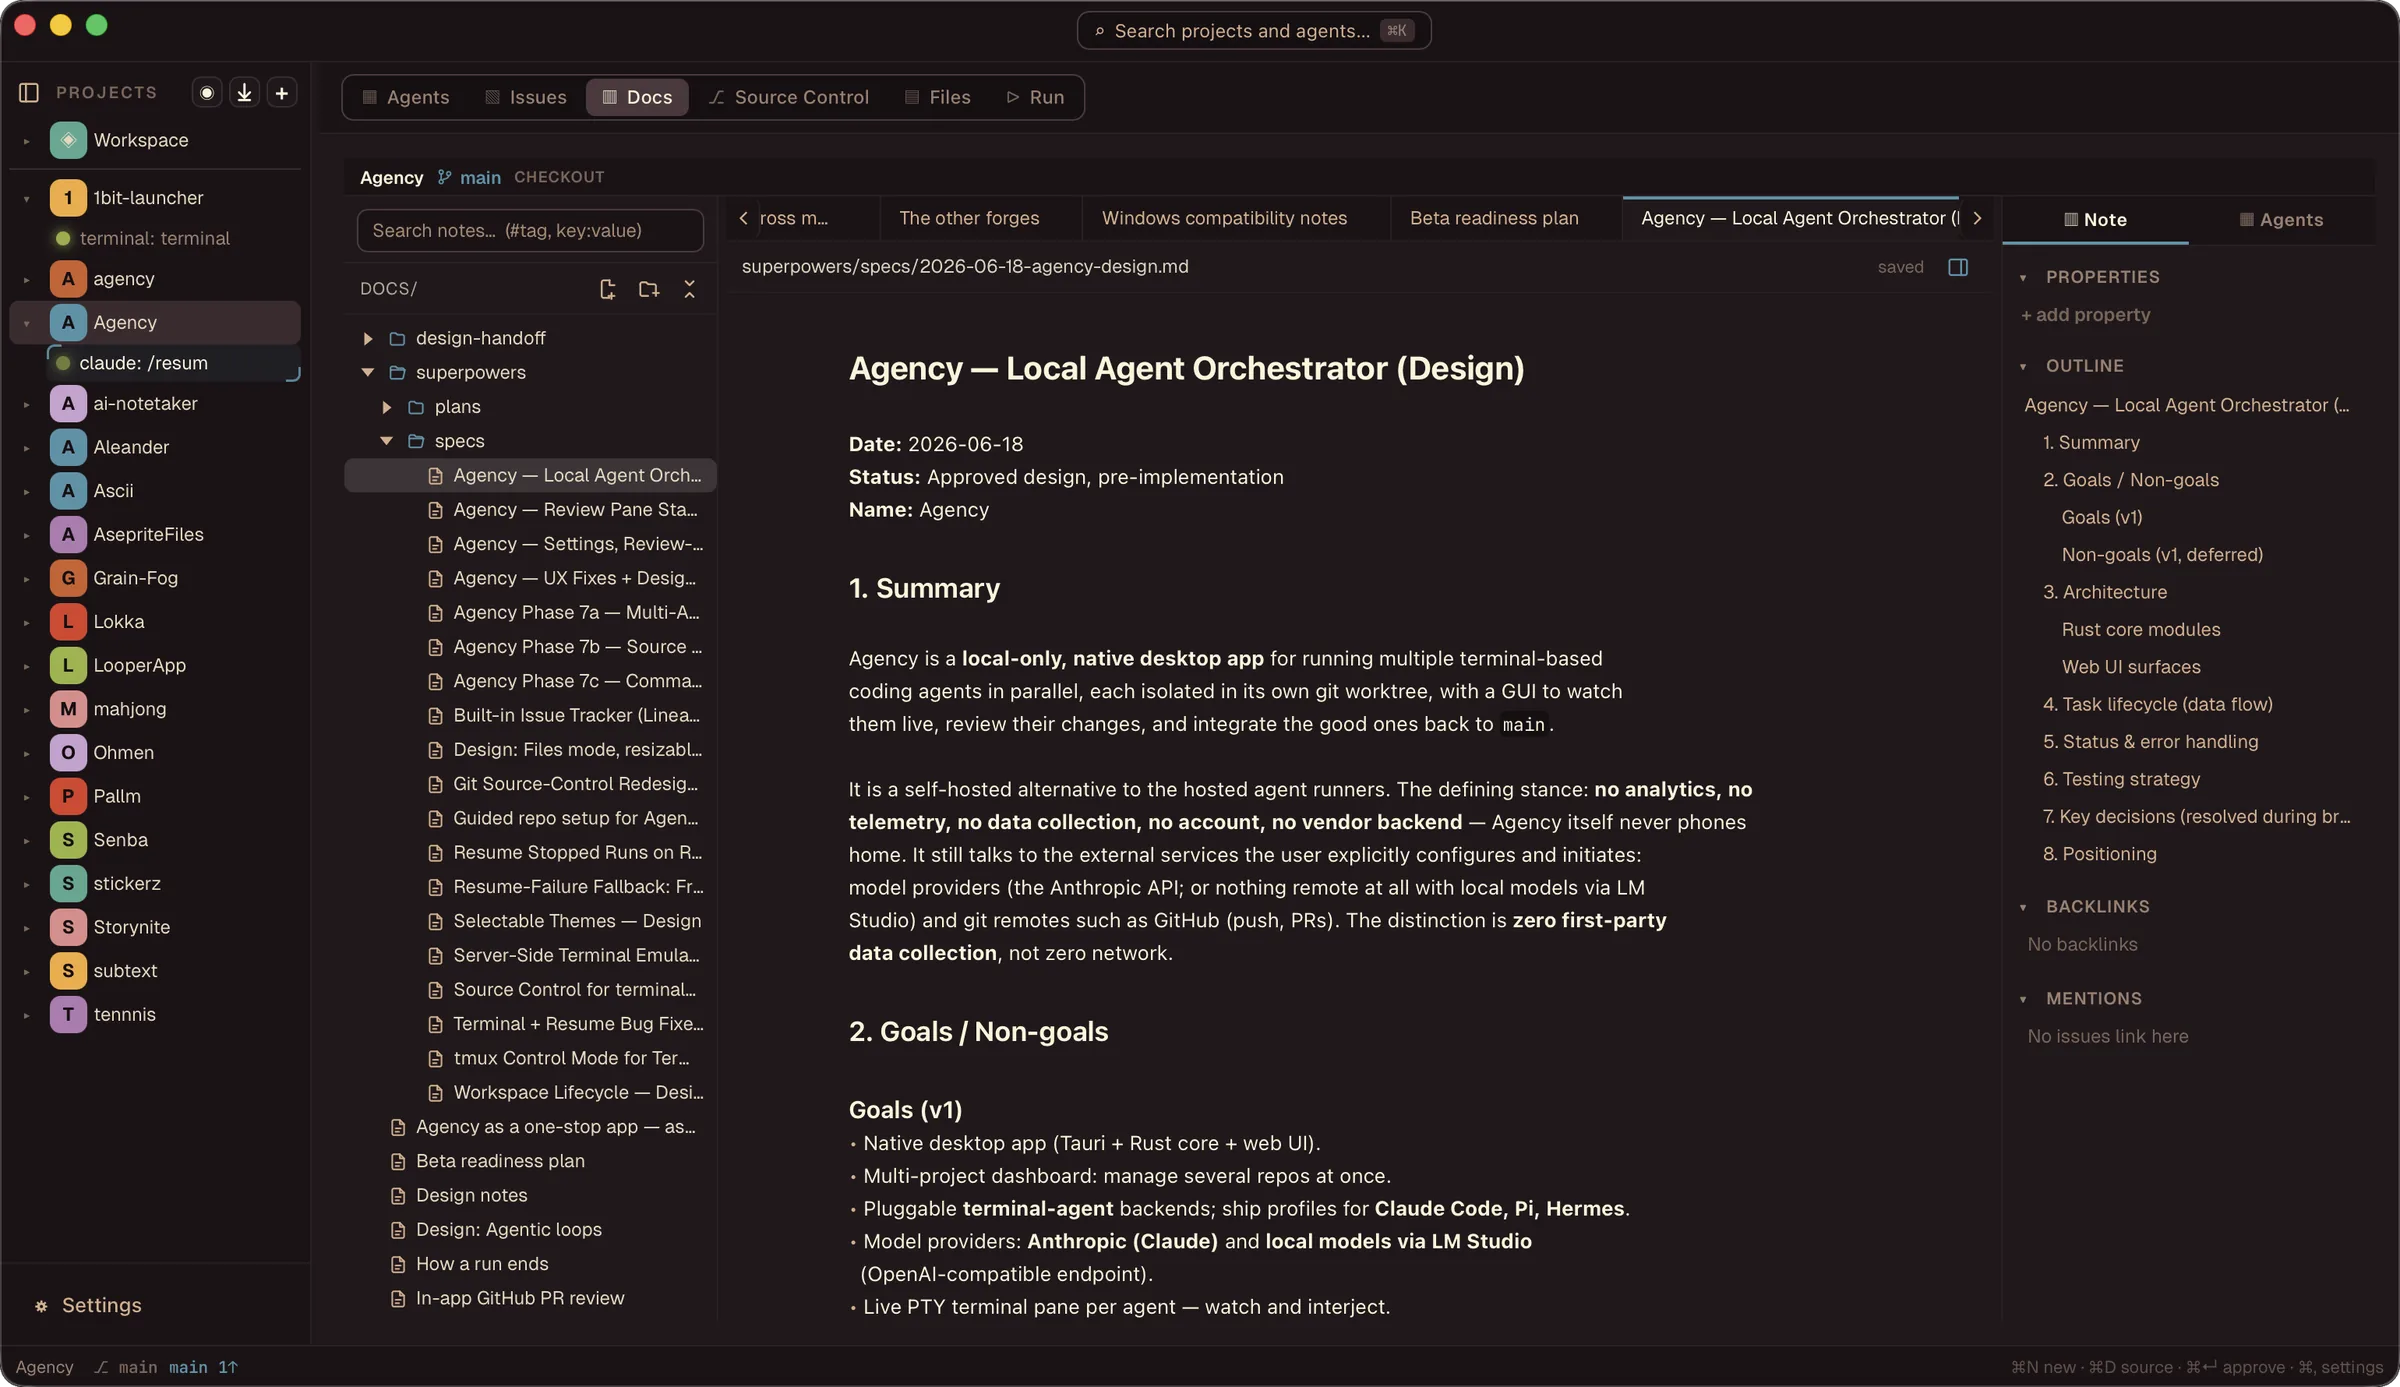
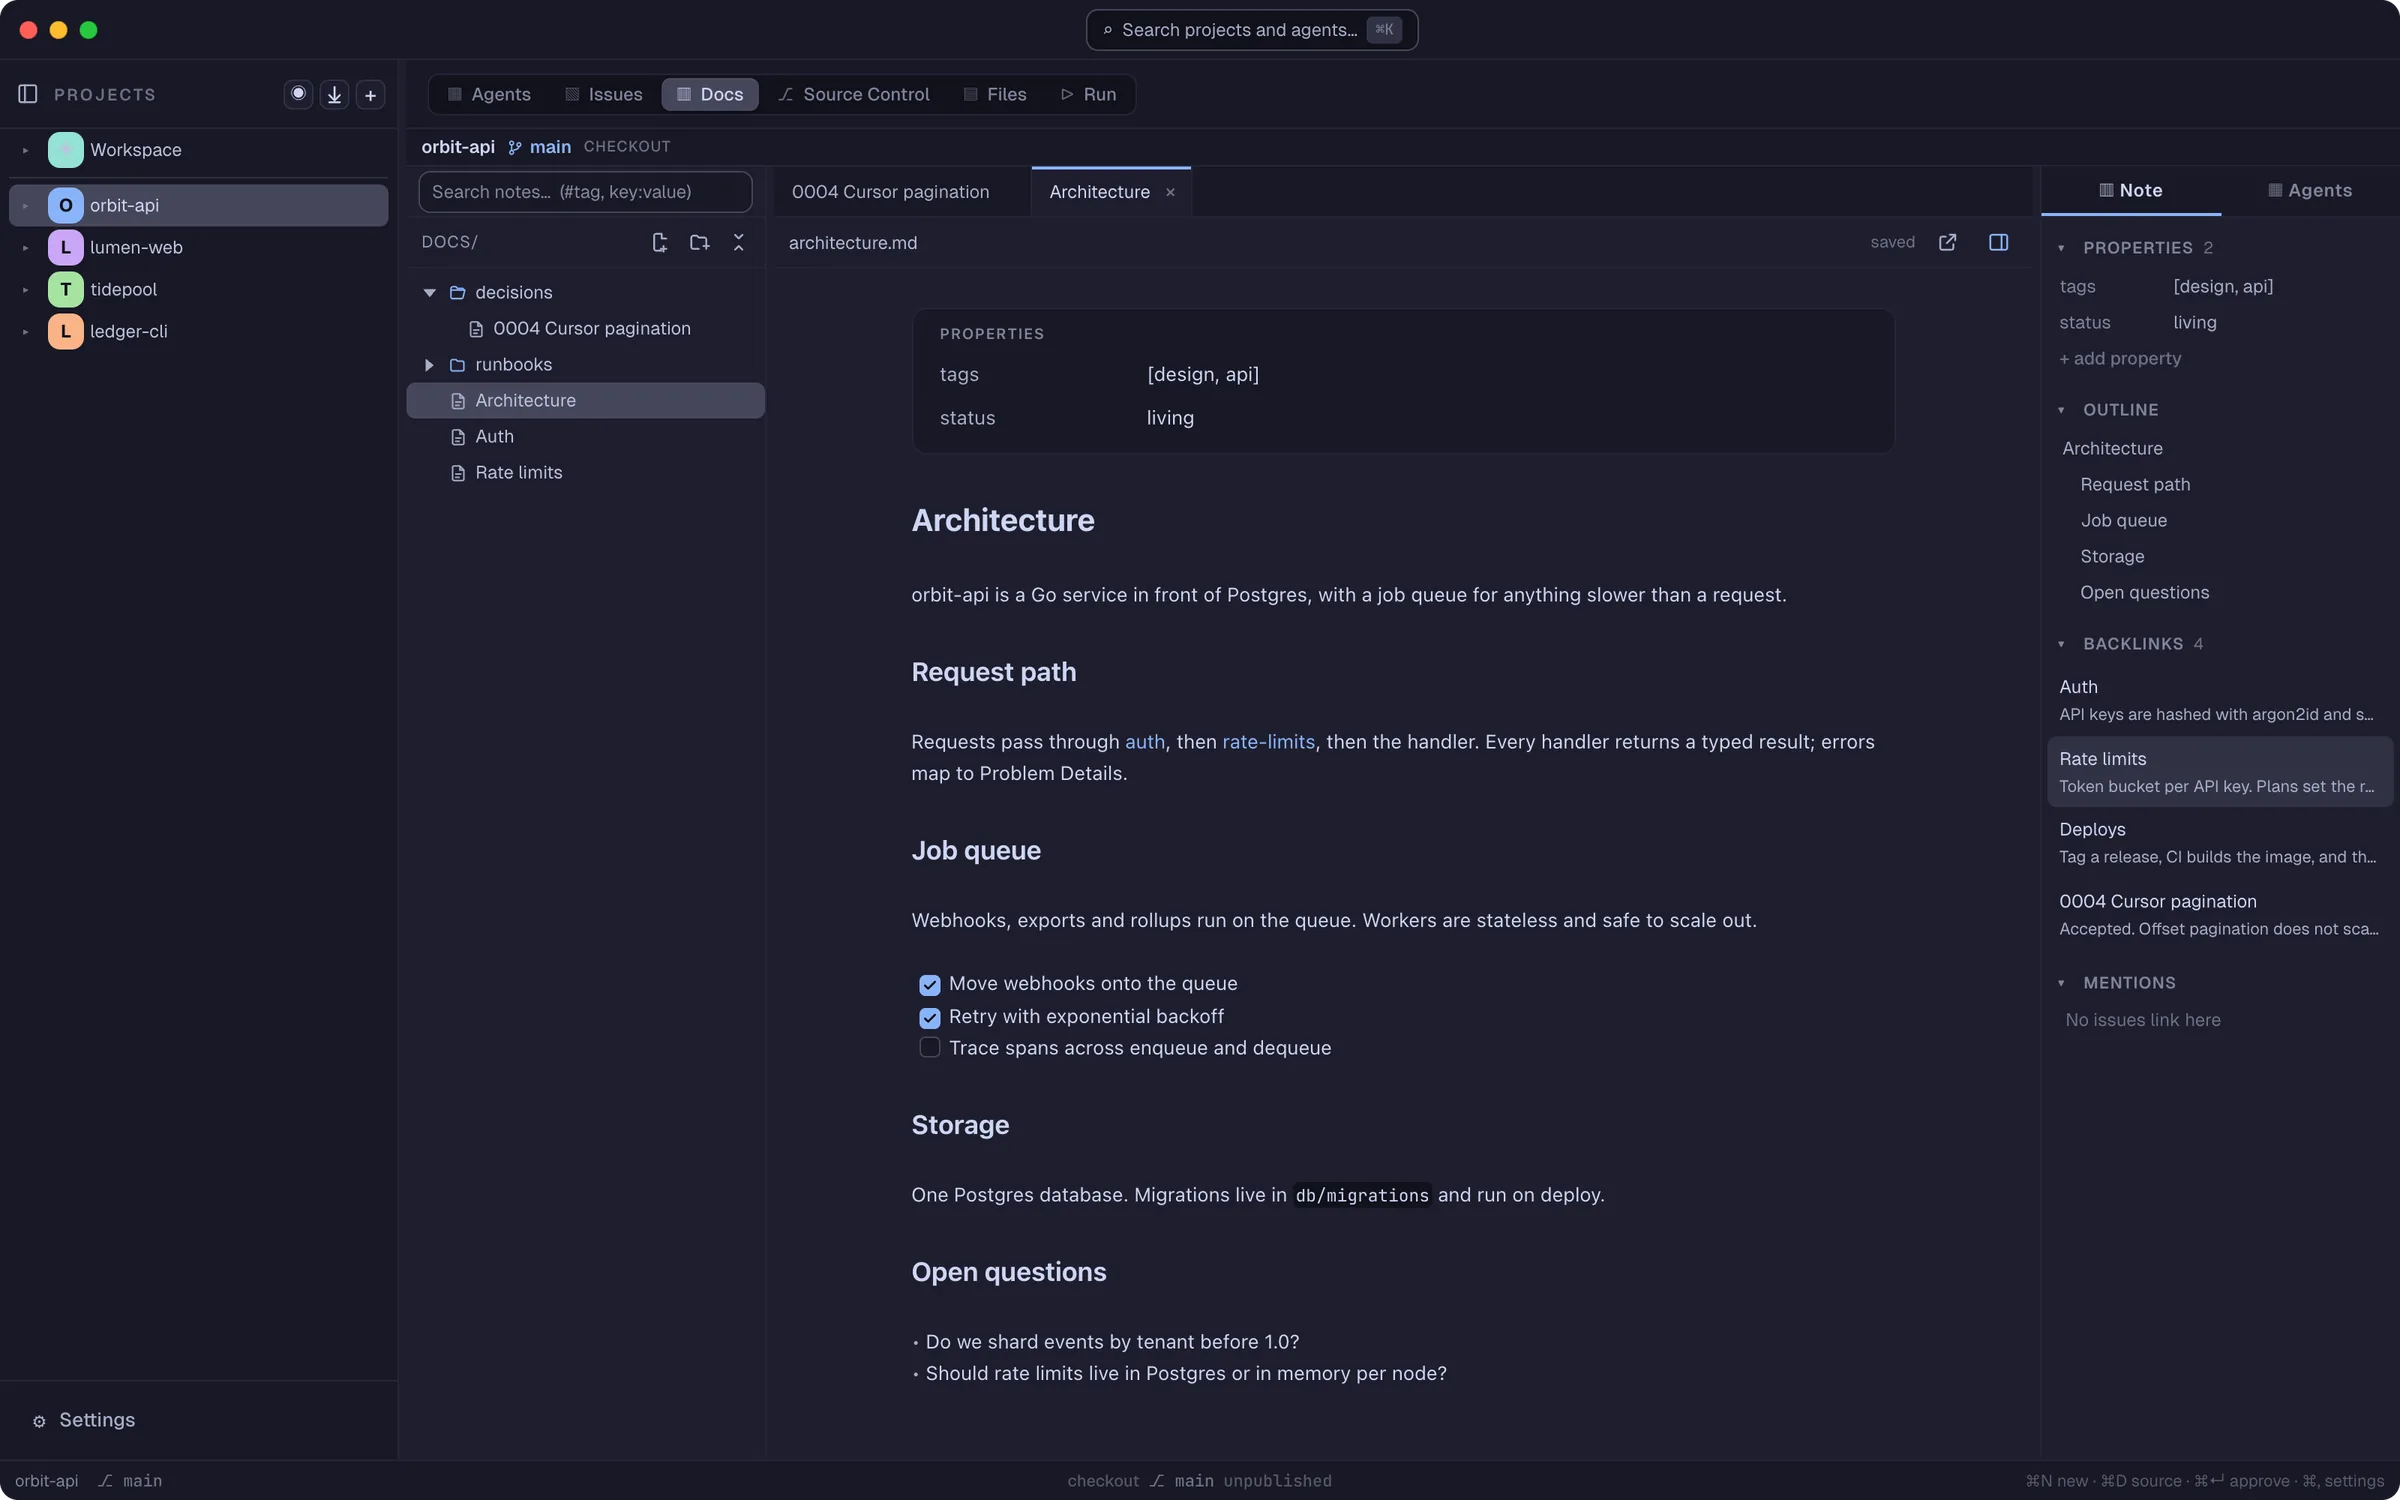
bring the org profile in line with the redesigned site
The profile now opens on the site's banner, the agent lanes forking off one
trunk under the headline, in a dark and a light version that follow the
viewer's theme. Below it the app plays as an animated loop, since a README
cannot play a self-hosted video, and links to the full tour.

The features follow the site's four-step workflow, plan, context, run and
review, with the new demo-data screenshots in place of the captures from a
working machine. The copy opens with a plain answer to what Agency is, and the
dogfooding section carries the dated commit-history figures.

diff --git a/profile/README.md b/profile/README.md
@@ -1,135 +1,122 @@
-<div align="center">
+<a href="https://getagency.dev">
+<picture>
+  <source media="(prefers-color-scheme: dark)" srcset="https://raw.githubusercontent.com/TennnisAI/.github/main/profile/assets/banner-dark.png">
+  <source media="(prefers-color-scheme: light)" srcset="https://raw.githubusercontent.com/TennnisAI/.github/main/profile/assets/banner-light.png">
+  <img src="https://raw.githubusercontent.com/TennnisAI/.github/main/profile/assets/banner-dark.png" alt="Many agents. Many branches. One window. Six agent lanes, Claude Code, Codex, Gemini CLI, OpenCode, Cursor and Copilot, fork off one trunk.">
+</picture>
+</a>
 
-<img src="https://raw.githubusercontent.com/TennnisAI/.github/main/profile/assets/agency-icon-180.png" alt="" width="84">
+**Agency is a free, open-source desktop app that runs AI coding agents in parallel
+on your own machine.** Claude Code, Codex, Gemini CLI and the other agent CLIs you
+already use each get a real terminal, their own git worktree and their own branch.
+You read the diffs and merge the good ones.
 
-# Agency
+**[Download for macOS and Linux](https://getagency.dev/download)** &nbsp;&nbsp; [getagency.dev](https://getagency.dev) &nbsp;&nbsp; [Source](https://github.com/TennnisAI/Agency)
 
-### Many agents. Many branches. One window.
+v0.2.3, in beta. macOS 11 or later on Apple Silicon, and Linux on x86_64 and
+arm64. Free, Apache-2.0, and no account.
 
-Agency runs the coding agent CLIs you already use, side by side on your own
-machine. Each one gets a real terminal, its own git worktree, and its own branch.
+<a href="https://getagency.dev/#tour"><img src="https://raw.githubusercontent.com/TennnisAI/.github/main/profile/assets/hero.webp" alt="Agency running eleven agents across four projects, then six agents on one repo, four agents racing one prompt, and a branch merged cleanly into main."></a>
 
-macOS 11 or later, Apple Silicon &nbsp;&middot;&nbsp; Linux, x86_64 and arm64 &nbsp;&middot;&nbsp; free &nbsp;&middot;&nbsp; no account
-
-**[Download](https://getagency.dev/download)** &nbsp;&middot;&nbsp; **[getagency.dev](https://getagency.dev)** &nbsp;&middot;&nbsp; **[Source](https://github.com/TennnisAI/Agency)**
-
-</div>
-
-<br>
-
-<img src="https://raw.githubusercontent.com/TennnisAI/.github/main/profile/assets/shot-overview.webp" alt="The Agency window showing the all-projects overview: 18 projects and 12 agents, with live terminal output from several Claude Code runs and a Cursor agent, each on its own agent branch.">
-
-<br>
+<sub>The app, running. [Watch the one-minute tour on getagency.dev.](https://getagency.dev/#tour)</sub>
 
 ## Works with what you already run
 
-Claude Code &middot; Codex &middot; Pi &middot; OpenCode &middot; Copilot CLI &middot; Cursor &middot; Hermes &middot; Gemini CLI &middot; Kimi Code &middot; Crush &middot; DeepSeek Harness
+`Claude Code` `Codex` `Gemini CLI` `OpenCode` `Cursor` `Copilot CLI` `Kimi Code` `Crush` `Hermes` `Pi` `DeepSeek Harness` `any other CLI`
 
-Agency finds what is on your PATH and offers to install what is not. Your keys
-and subscriptions, unchanged.
+Bring the agents you already pay for. Agency finds what is on your PATH and
+offers to install what is not. Your keys and subscriptions stay as they are.
 
-<br>
+## From an issue to a merged branch
 
-## Six agents, six branches, no collisions
+Write the task down, give the agent the context, let several run at once, and
+read every change before it lands on your base branch.
 
-Every run opens in its own git worktree, so agents working the same repo never
-touch each other's files. Watch them all in a grid, or pull one full size when
-it needs you.
+### 1. Plan: your tracker is a folder of markdown files
 
-- Different agent types on the same repo at the same time
-- Plain terminals alongside, in the project checkout, when you want one
-- Worktrees are the default, not a requirement
-
-<img src="https://raw.githubusercontent.com/TennnisAI/.github/main/profile/assets/shot-focus.webp" alt="An agent in focus view: Claude Code working an issue in its own worktree, the run rail on the left listing other agents, and the changes and commit history panel on the right with an Approve button.">
-
-<br>
-
-## Your tracker is a folder of markdown files
-
-Issues live in your project as files. That is why an agent can work them:
-picking one up, changing its status, adding a comment and filing a follow-up are
-all just edits.
+Issues live in your project as plain files. That is why an agent can work them:
+picking one up, changing its status, commenting and filing a follow-up are all
+just edits.
 
 - Dispatch an issue to an agent and it moves to In progress
 - Open a PR and it moves to In review. Merge and it closes
 - Comments, links, attachments and due dates, all in the file
 
-<img src="https://raw.githubusercontent.com/TennnisAI/.github/main/profile/assets/shot-issues.webp" alt="The Issues tab: a board grouped by Todo, In progress and Done, with an open issue detail showing the body, properties, priority and linked mentions.">
+<img src="https://raw.githubusercontent.com/TennnisAI/.github/main/profile/assets/shot-issues.webp" alt="The Issues tab: a board grouped by Backlog, Todo, In progress and In review, with an issue open beside it showing its acceptance criteria, a comment and a linked issue.">
 
-<br>
+### 2. Context: notes your agents can actually read
 
-## Notes your agents can actually read
-
-A wiki that lives in your repo. Wikilinks, backlinks, tags, properties, an
-outline and a quick switcher, plus a journal with daily notes and a weekly note
-generated from what actually happened.
+A wiki that lives in your repo, with wikilinks, backlinks, tags, an outline and a
+quick switcher, plus a journal with daily notes and a weekly note built from what
+actually happened.
 
 - Hand a note to an agent and watch the page update as it writes
 - Put an agent in the side panel of the note you are working on
 - Keep a notes-only workspace with no code in it at all
 
-<img src="https://raw.githubusercontent.com/TennnisAI/.github/main/profile/assets/shot-docs.webp" alt="The Docs tab: a rendered markdown design note open in the editor with the notes tree on the left, and the note's properties, outline and backlinks in the panel on the right.">
+<img src="https://raw.githubusercontent.com/TennnisAI/.github/main/profile/assets/shot-docs.webp" alt="The Docs tab: an architecture note open with its properties, headings and a task list, the notes tree on the left, and the note's outline and backlinks on the right.">
 
-<br>
+### 3. Run: six agents, six branches, no collisions
 
-## Read the diff before you trust it
+Every run opens in its own git worktree: a second checkout of the same repo on
+its own branch. Agents working the same project never touch each other's files.
+Watch them all in a grid, or pull one full size when it needs you.
 
-Staged changes, per-hunk diffs, commit, history, branches and stash, for
-whichever worktree you are standing in. Review a pull request, create one, merge
-it, and resolve the conflicts when two agents reach for the same lines.
+- Different agent CLIs on the same repo at the same time
+- Plain terminals alongside, in the project checkout, when you want one
+- Desktop alerts when an agent finishes, stalls on a question or hits a conflict
+
+<img src="https://raw.githubusercontent.com/TennnisAI/.github/main/profile/assets/shot-grid.webp" alt="The Agents grid: six agents working one repo at once, Claude Code, Codex, Gemini CLI, OpenCode, Cursor and Pi, each tile showing its branch, its diff size and its live terminal.">
+
+### 4. Review: read the diff before you trust it
+
+Per-hunk diffs, commit, history, branches and stash for whichever worktree you
+are standing in. Review a pull request, open one, merge it, and resolve the
+conflicts when two agents reach for the same lines.
 
 - Per-run diffs, so you review one agent's work at a time
 - Comment on a diff and send it straight back to the agent
 
-<img src="https://raw.githubusercontent.com/TennnisAI/.github/main/profile/assets/shot-merge.webp" alt="Source Control Changes: a side-by-side diff open for review, the commit form for the agent branch, and the branch history graph below.">
+<img src="https://raw.githubusercontent.com/TennnisAI/.github/main/profile/assets/shot-merge.webp" alt="Source Control Changes: a side-by-side diff of an agent's fix to a flaky test, the commit form for its branch, and the branch history below.">
 
-<br>
-
-## And
+## The parts you notice on day two
 
 |  |  |
 |---|---|
-| **&#x2273;&#xFE0E; Terminal first** | Agency does not reimplement your agent. It spawns the CLI you already use in a real terminal, TUI and all. |
+| **&#x2273;&#xFE0E; Terminal first** | Agency does not reimplement your agent. It spawns the CLI you already use in a real terminal, TUI and all, and you can type into it. |
 | **&#x21CB;&#xFE0E; Agent agnostic** | Eleven agent CLIs built in, and any other you can launch from a command line. Bring your own keys. |
 | **&#x25A6;&#xFE0E; Many projects, one window** | Set agents going on one project, switch to the next, and come back when they are done. One home screen covers all of them. |
-| **&#x25D4;&#xFE0E; Notified when it matters** | Desktop alerts when an agent finishes, goes quiet waiting on you, crashes a run script, or hits a merge conflict. Silent for the run you are watching. |
+| **&#x25D4;&#xFE0E; Quiet until it matters** | Alerts when an agent finishes, goes quiet waiting on you, crashes a run script or hits a merge conflict. Silent for the run you are watching. |
 | **&#x27F3;&#xFE0E; Auto-resume** | Quit with work in flight. Reopen, click the run, and the conversation picks up where the agent's CLI can continue it. |
-| **&#x2225;&#xFE0E; Race and loop** | Send one prompt to four agents and keep the branch you like best. Or loop one agent until your test command exits clean. |
+| **&#x2225;&#xFE0E; Race and loop** | Send one prompt to four agents and keep the branch you like best. Or loop one agent until your test command exits clean, with hard caps on attempts, time and tokens. |
 
-<br>
+## No account. No vendor backend. No telemetry.
 
-## Nothing of yours comes to us
+Agency does no first-party data collection, and there is no server of ours for it
+to talk to. The coding agents are third party and talk to their own providers
+with your own credentials, the same as when you run them in a terminal, and git
+talks to whichever remotes you configured.
 
-**No account. No vendor backend. No analytics, no telemetry.**
-
-Agency does no first-party data collection, and there is no server of ours for
-it to talk to. Download it, open it, point it at a repo. The coding agents are
-third party and talk to their own providers with your own credentials, and git
-talks to whichever remotes you configured; those connections are yours.
-
-Agency makes one kind of network request of its own, the update check: on
-launch and every six hours while it is open, it asks GitHub's public API for the
-latest release tag and compares it to the version you are running. It sends no
-identifiers and downloads nothing, and you can turn it off in Settings. A
+Agency makes one kind of network request of its own, the update check: on launch
+and every six hours while it is open, it asks GitHub's public API for the latest
+release tag and compares it to the version you are running. It sends no
+identifiers and downloads nothing, and one switch in Settings turns it off. A
 release is fetched only when you press Install, and it is checked against a
 signing key built into the app before it goes in place.
 [The privacy page](https://getagency.dev/privacy) has the full account.
 
-<br>
-
 ## Agency built Agency
 
 Almost everything above was written by agents running in Agency, on worktrees
-Agency cut, reviewed and merged in the app. The commit history is the receipt.
-
-<br>
+Agency cut, then reviewed and merged in the app. The commit history is the
+receipt, and it is public:
+**237 agent branches merged into main, and 1,056 commits between 18 June and
+6 October 2026.** [Read it.](https://github.com/TennnisAI/Agency/commits/main)
 
 ---
 
-<div align="center">
+Pre-1.0 and in beta. Windows is planned. New to running agents side by side?
+[Here is how to do it by hand](https://getagency.dev/run-coding-agents-in-parallel),
+with or without Agency.
 
-Pre-1.0 and in beta. Windows is planned.
-
-Brought to you by **[Tennnis](https://tennnis.no)**
-
-</div>
+Brought to you by **[Tennnis](https://tennnis.no)**.
